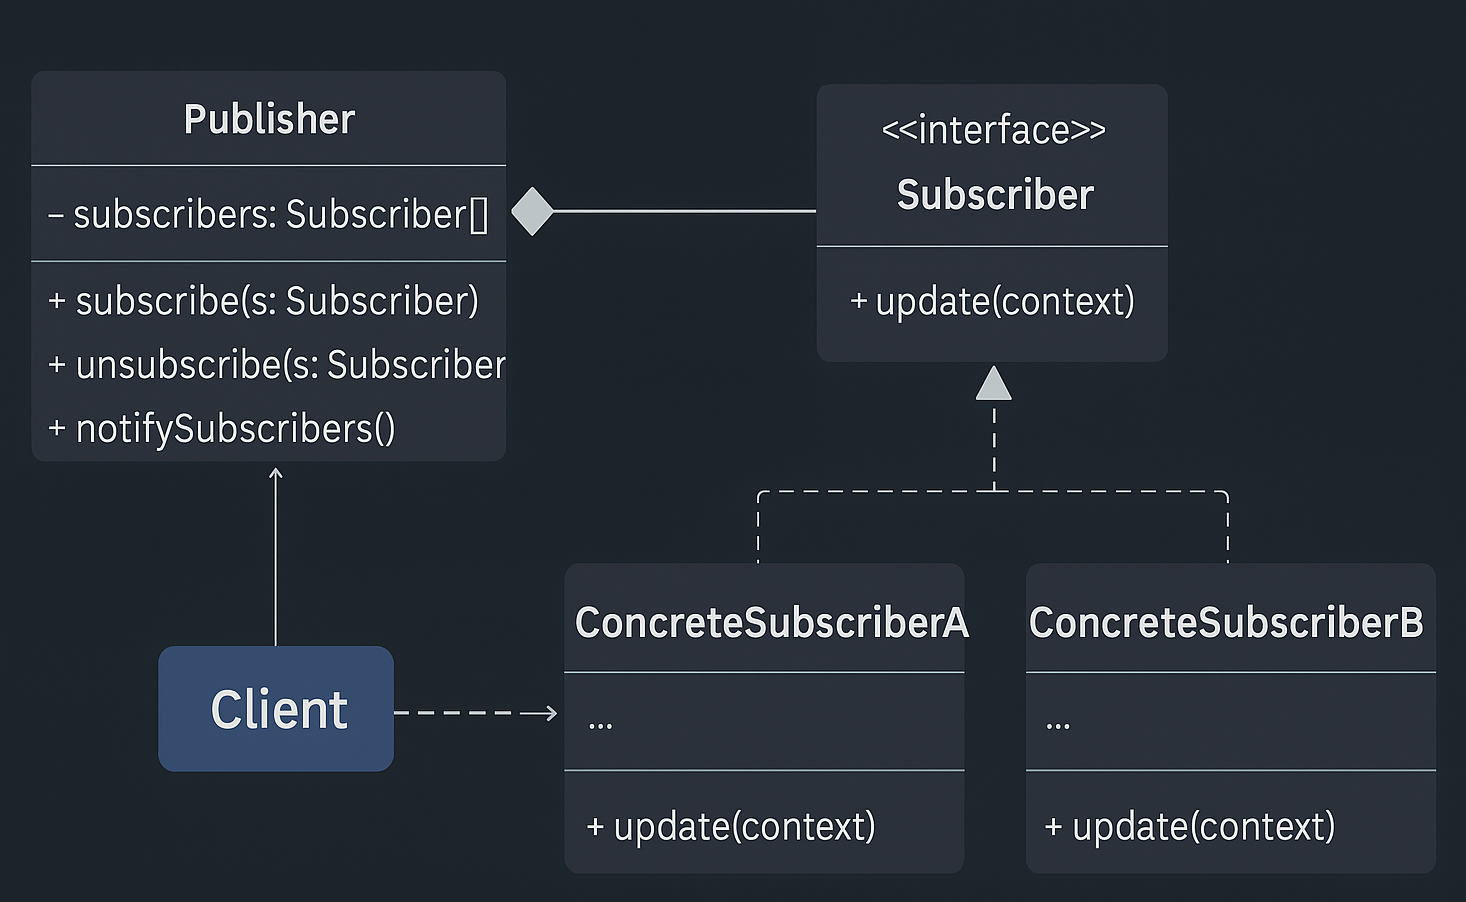
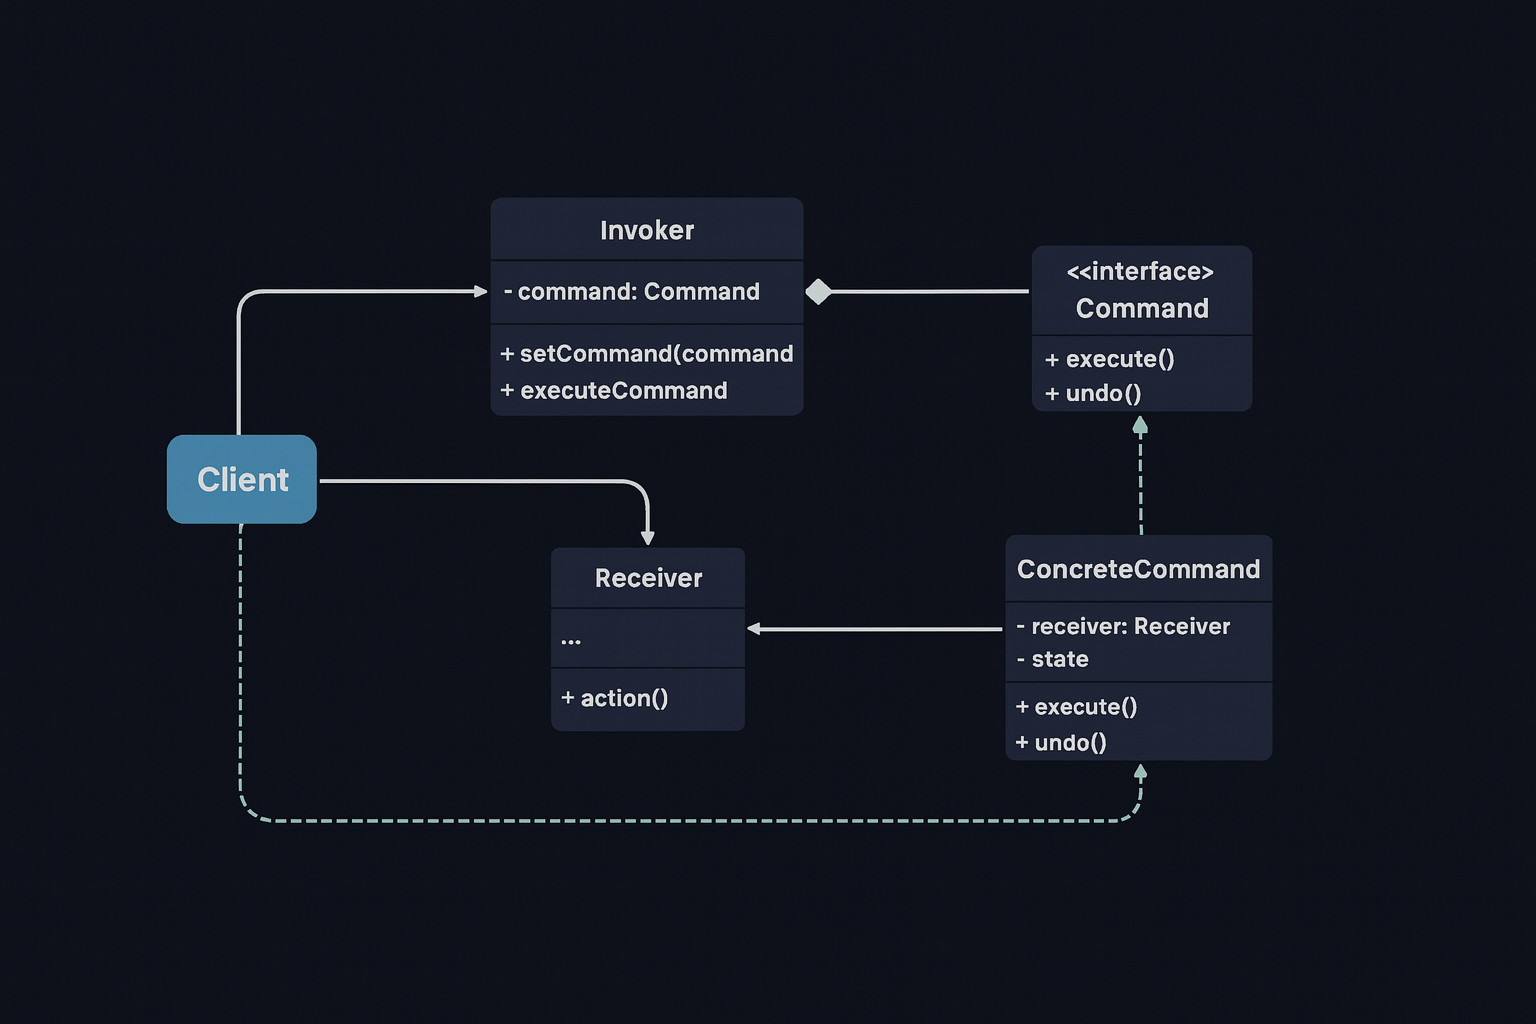
Added Command Pattern

diff --git a/DesignPatterns/BehavioralPattern/Command/Problem/OrderService.java b/DesignPatterns/BehavioralPattern/Command/Problem/OrderService.java
@@ -1,0 +1,27 @@
+/**
+ * ❌ Problem Version:
+ * Direct method calls without Command Pattern or Undo support.
+ */
+public class OrderService {
+
+    public void placeOrder(String orderId) {
+        System.out.println("[OrderService] Order placed: " + orderId);
+    }
+
+    public void cancelOrder(String orderId) {
+        System.out.println("[OrderService] Order cancelled: " + orderId);
+    }
+
+    public void refundOrder(String orderId) {
+        System.out.println("[OrderService] Order refunded: " + orderId);
+    }
+
+    public void shipOrder(String orderId) {
+        System.out.println("[OrderService] Order shipped: " + orderId);
+    }
+
+    public void notifyUser(String orderId, String message) {
+        System.out.println("[OrderService] Notification sent to user for Order "
+                + orderId + ": " + message);
+    }
+}

diff --git a/DesignPatterns/BehavioralPattern/Command/Solution/OrderService.java b/DesignPatterns/BehavioralPattern/Command/Solution/OrderService.java
@@ -1,0 +1,24 @@
+package DesignPatterns.BehavioralPattern.Command.Solution;
+
+public class OrderService {
+
+    public void placeOrder(String orderId) {
+        System.out.println("[OrderService] Order placed: " + orderId);
+    }
+
+    public void cancelOrder(String orderId) {
+        System.out.println("[OrderService] Order cancelled: " + orderId);
+    }
+
+    public void refundOrder(String orderId) {
+        System.out.println("[OrderService] Order refunded: " + orderId);
+    }
+
+    public void shipOrder(String orderId) {
+        System.out.println("[OrderService] Order shipped: " + orderId);
+    }
+
+    public void notifyUser(String orderId, String message) {
+        System.out.println("[OrderService] Notification to " + orderId + ": " + message);
+    }
+}

diff --git a/DesignPatterns/BehavioralPattern/Command/Solution/Client.java b/DesignPatterns/BehavioralPattern/Command/Solution/Client.java
@@ -1,0 +1,19 @@
+package DesignPatterns.BehavioralPattern.Command.Solution;
+
+public class Client {
+
+    public static void main(String[] args) {
+
+        OrderService service = new OrderService();
+        CommandInvoker invoker = new CommandInvoker();
+
+        invoker.executeCommand(new PlaceOrderCommand(service, "ORD-500"));
+        invoker.executeCommand(new ShipOrderCommand(service, "ORD-500"));
+        invoker.executeCommand(new NotifyUserCommand(service, "ORD-500", "Your order has shipped!"));
+        invoker.executeCommand(new CancelOrderCommand(service, "ORD-500"));
+
+        System.out.println("\n--- Undo operations ---");
+        invoker.undoLast();
+        invoker.undoLast();
+    }
+}

diff --git a/DesignPatterns/BehavioralPattern/Command/Solution/NotifyUserCommand.java b/DesignPatterns/BehavioralPattern/Command/Solution/NotifyUserCommand.java
@@ -1,0 +1,24 @@
+package DesignPatterns.BehavioralPattern.Command.Solution;
+
+public class NotifyUserCommand implements Command {
+
+    private OrderService service;
+    private String orderId;
+    private String message;
+
+    public NotifyUserCommand(OrderService service, String orderId, String message) {
+        this.service = service;
+        this.orderId = orderId;
+        this.message = message;
+    }
+
+    @Override
+    public void execute() {
+        service.notifyUser(orderId, message);
+    }
+
+    @Override
+    public void undo() {
+        System.out.println("[NotifyUserCommand] Undoing notification (no-op).");
+    }
+}

diff --git a/DesignPatterns/BehavioralPattern/Command/Solution/RefundOrderCommand.java b/DesignPatterns/BehavioralPattern/Command/Solution/RefundOrderCommand.java
@@ -1,0 +1,22 @@
+package DesignPatterns.BehavioralPattern.Command.Solution;
+
+public class RefundOrderCommand implements Command {
+
+    private OrderService service;
+    private String orderId;
+
+    public RefundOrderCommand(OrderService service, String orderId) {
+        this.service = service;
+        this.orderId = orderId;
+    }
+
+    @Override
+    public void execute() {
+        service.refundOrder(orderId);
+    }
+
+    @Override
+    public void undo() {
+        System.out.println("[RefundOrderCommand] Undoing refund not supported realistically.");
+    }
+}

diff --git a/DesignPatterns/BehavioralPattern/Command/Solution/ShipOrderCommand.java b/DesignPatterns/BehavioralPattern/Command/Solution/ShipOrderCommand.java
@@ -1,0 +1,22 @@
+package DesignPatterns.BehavioralPattern.Command.Solution;
+
+public class ShipOrderCommand implements Command {
+
+    private OrderService service;
+    private String orderId;
+
+    public ShipOrderCommand(OrderService service, String orderId) {
+        this.service = service;
+        this.orderId = orderId;
+    }
+
+    @Override
+    public void execute() {
+        service.shipOrder(orderId);
+    }
+
+    @Override
+    public void undo() {
+        System.out.println("[ShipOrderCommand] Cannot undo shipping in real workflows.");
+    }
+}

diff --git a/DesignPatterns/BehavioralPattern/Command/Solution/CommandInvoker.java b/DesignPatterns/BehavioralPattern/Command/Solution/CommandInvoker.java
@@ -1,0 +1,22 @@
+package DesignPatterns.BehavioralPattern.Command.Solution;
+
+import java.util.Stack;
+
+public class CommandInvoker {
+
+    private Stack<Command> history = new Stack<>();
+
+    public void executeCommand(Command command) {
+        command.execute();
+        history.push(command);
+    }
+
+    public void undoLast() {
+        if (!history.isEmpty()) {
+            Command last = history.pop();
+            last.undo();
+        } else {
+            System.out.println("[Invoker] Nothing to undo.");
+        }
+    }
+}

diff --git a/DesignPatterns/BehavioralPattern/Command/Solution/CancelOrderCommand.java b/DesignPatterns/BehavioralPattern/Command/Solution/CancelOrderCommand.java
@@ -1,0 +1,22 @@
+package DesignPatterns.BehavioralPattern.Command.Solution;
+
+public class CancelOrderCommand implements Command {
+
+    private OrderService service;
+    private String orderId;
+
+    public CancelOrderCommand(OrderService service, String orderId) {
+        this.service = service;
+        this.orderId = orderId;
+    }
+
+    @Override
+    public void execute() {
+        service.cancelOrder(orderId);
+    }
+
+    @Override
+    public void undo() {
+        service.placeOrder(orderId);
+    }
+}

diff --git a/DesignPatterns/BehavioralPattern/Command/Solution/PlaceOrderCommand.java b/DesignPatterns/BehavioralPattern/Command/Solution/PlaceOrderCommand.java
@@ -1,0 +1,22 @@
+package DesignPatterns.BehavioralPattern.Command.Solution;
+
+public class PlaceOrderCommand implements Command {
+
+    private OrderService service;
+    private String orderId;
+
+    public PlaceOrderCommand(OrderService service, String orderId) {
+        this.service = service;
+        this.orderId = orderId;
+    }
+
+    @Override
+    public void execute() {
+        service.placeOrder(orderId);
+    }
+
+    @Override
+    public void undo() {
+        service.cancelOrder(orderId);
+    }
+}

diff --git a/DesignPatterns/BehavioralPattern/Command/Problem/Client.java b/DesignPatterns/BehavioralPattern/Command/Problem/Client.java
@@ -1,0 +1,17 @@
+/**
+ * Demonstrates the PROBLEM version of Command Pattern:
+ * No command abstraction, no undo, tightly coupled calls.
+ */
+public class Client {
+
+    public static void main(String[] args) {
+
+        OrderService service = new OrderService();
+
+        service.placeOrder("ORD-101");
+        service.shipOrder("ORD-101");
+        service.notifyUser("ORD-101", "Your order has been shipped!");
+        service.cancelOrder("ORD-101");
+        service.refundOrder("ORD-101");
+    }
+}

diff --git a/DesignPatterns/BehavioralPattern/Command/Solution/Command.java b/DesignPatterns/BehavioralPattern/Command/Solution/Command.java
@@ -1,0 +1,6 @@
+package DesignPatterns.BehavioralPattern.Command.Solution;
+
+public interface Command {
+    void execute();
+    void undo();
+}

diff --git a/DesignPatterns/BehavioralPattern/Command/README.md b/DesignPatterns/BehavioralPattern/Command/README.md
@@ -1,0 +1,151 @@
+# Command Pattern — Order Operation Command System (With Undo Support)
+
+This module demonstrates the **Command Design Pattern** from the Behavioral Design Patterns family using a real-world, enterprise-grade *E-Commerce Order Operation System*.
+
+Command Pattern states:
+
+> **Encapsulate a request as an object, allowing you to parameterize clients, queue or log requests, and support undoable operations.**
+
+In simple terms:  
+➡ Each business operation becomes a *Command* object with `execute()` and `undo()` methods.  
+➡ Invokers trigger commands without knowing the underlying business logic.  
+➡ Undo history is maintained cleanly using a stack.
+
+---
+
+## 🚫 Violation (Problem)
+
+In the Problem version:
+
+service.placeOrder("ORD-101");
+service.cancelOrder("ORD-101");
+service.shipOrder("ORD-101");
+service.refundOrder("ORD-101");
+
+This leads to:
+
+- Tight coupling between client and business logic  
+- No **Undo** support  
+- No ability to queue, log, or schedule operations  
+- Violates **Open/Closed Principle** — new operations require editing client code  
+- Impossible to represent actions as objects  
+- Hard to extend into macro operations or workflows  
+
+---
+
+## ✅ Command-Compliant Solution (With Undo Support)
+
+We introduce the full Command Pattern infrastructure:
+
+| Concern | Implementation | Description |
+|--------|----------------|-------------|
+| Command Interface | `Command` | Declares `execute()` and `undo()` |
+| Concrete Commands | `PlaceOrderCommand`, `CancelOrderCommand`, `RefundOrderCommand`, etc. | Encapsulate each action + its undo logic |
+| Receiver | `OrderService` | Actual business logic (place, cancel, refund, ship, notify) |
+| Invoker | `CommandInvoker` | Executes commands and maintains undo stack |
+| Client | `Client.java` | Creates commands and submits them to the Invoker |
+
+This design enables:
+
+- Full **Undo/Redo** capability  
+- Commands can be persisted, queued, logged, scheduled  
+- Loose coupling between UI/Client and business logic  
+- Clean extension — add new commands without modifying existing code  
+- Ideal basis for workflow engines and transactional systems  
+
+---
+
+## 🧠 UML Reference
+
+![Command](../../../assets/uml-images/design-patterns-uml/behavioral-patterns-uml/Command.png)
+
+---
+
+## 👌 Benefits of This Design
+
+- ✔ Encapsulates each action as an independent object  
+- ✔ Adds full **undo** capability  
+- ✔ Enables command logging, queuing, batching  
+- ✔ Supports macro commands (future extension)  
+- ✔ UI, API, or schedulers can trigger commands uniformly  
+- ✔ Complies with **OCP**, **SRP**, and **DIP**  
+- ✔ Perfect for distributed, event-driven architectures  
+
+---
+
+## 📦 How It Works
+
+CommandInvoker manages command execution:
+
+invoker.executeCommand(new PlaceOrderCommand(service, "ORD-500"));
+invoker.executeCommand(new ShipOrderCommand(service, "ORD-500"));
+invoker.undoLast(); // undo shipping
+
+Execution flow:
+
+Client → Invoker → Command → Receiver
+
+Undo flow:
+
+Invoker → pop history → Command.undo()
+
+Each command holds the required data (orderId, message, state) needed to undo the operation.
+
+---
+
+## 🧪 Sample Output
+
+[OrderService] Order placed: ORD-500  
+[OrderService] Order shipped: ORD-500  
+[OrderService] Notification to ORD-500: Your order has shipped!  
+[OrderService] Order cancelled: ORD-500  
+
+--- Undo operations ---  
+[CancelOrderCommand] Undo -> placing order ORD-500 again  
+[NotifyUserCommand] Undoing notification (no-op)  
+
+This output clearly shows:
+
+- Commands executing independently  
+- Invoker calling undo logic correctly  
+- Decoupled and extensible behavior  
+
+---
+
+## 🛑 Common Interview Traps
+
+- ❌ Command vs Strategy confusion  
+- ❌ Forgetting Receiver role  
+- ❌ Not supporting undo/redo  
+- ❌ Storing business logic inside commands (should be in Receiver)  
+- ❌ Hardcoding invoker → violates decoupling  
+- ❌ Treating commands as simple function calls instead of full objects  
+
+---
+
+## ✅ When to Use
+
+Use Command Pattern when:
+
+- You need **Undo/Redo** (CRITICAL)  
+- Requests must be **queued**, **logged**, or **replayed**  
+- You want decoupled UI elements (buttons, menus, APIs)  
+- Operations must be **macro-commands** (batch operations)  
+- You want a scalable task execution/automation system  
+- You want clean separation of business logic (Receiver) and invocation logic (Invoker)
+
+Avoid when:
+
+- Operations are extremely simple  
+- Undo isn't required and commands don’t need persistence  
+- A direct method call is more readable and sufficient  
+
+---
+
+## 🏁 One-Liner Summary
+
+> Command Pattern turns every operation into an independent, undoable object — enabling clean, decoupled, schedulable, and history-aware workflows.
+
+---
+
+Happy coding! 🚀
